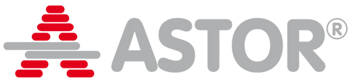
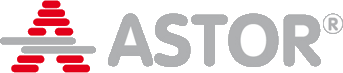
Marka logoları arka plansız, ürün listesi düzenli iki sütun
Claude-Session: https://claude.ai/code/session_01ET9Sv2NA7i64n1QzkYVztB

diff --git a/index.html b/index.html
@@ -46,18 +46,19 @@ a{color:inherit}
 .star{position:absolute;right:22px;top:calc(env(safe-area-inset-top,0px) + 70px);width:30px;z-index:2;animation:tw 3.6s ease-in-out infinite}
 @keyframes tw{50%{transform:scale(.72) rotate(20deg);opacity:.6}}
 .tag{margin:26px 0 0;font:700 12px/1 var(--body);letter-spacing:.14em;text-transform:uppercase;color:var(--sun)}
-.flow{list-style:none;margin:10px 0 0;padding:0;display:flex;flex-wrap:wrap;gap:6px 4px;align-items:center;max-width:100%}
-.flow li{display:inline-flex;align-items:center;gap:4px;font:600 12.5px/1.2 var(--body);color:#E6EDFF}
-.flow li span{background:rgba(255,255,255,.1);border:1px solid rgba(255,255,255,.18);border-radius:999px;padding:5px 9px}
-.flow li.hv span{background:rgba(246,194,50,.16);border-color:rgba(246,194,50,.45);color:#FFE7A3}
-.flow li + li::before{content:"›";color:rgba(255,255,255,.45);font-weight:700;margin-right:2px}
+.flow{list-style:none;margin:12px 0 0;padding:0;display:grid;grid-template-columns:1fr 1fr;gap:5px}
+.flow li{min-width:0;display:flex;align-items:center;justify-content:center;text-align:center;min-height:30px;padding:5px 8px;
+  font:600 12.5px/1.2 var(--body);color:#E6EDFF;background:rgba(255,255,255,.1);border:1px solid rgba(255,255,255,.18);border-radius:10px}
+.flow li.hv{background:rgba(246,194,50,.16);border-color:rgba(246,194,50,.45);color:#FFE7A3}
+.flow li:last-child:nth-child(odd){grid-column:1/-1}
 
 /* --- kişi --- */
 .me{position:relative;margin-top:-80px;display:grid;justify-items:center;text-align:center;gap:4px;z-index:3}
 .photorow{width:100%;display:grid;grid-template-columns:1fr auto 1fr;gap:10px;align-items:start}
 .side{display:grid;gap:6px;min-width:0}
-.side span{background:#fff;border-radius:10px;height:32px;display:grid;place-items:center;padding:4px 8px;box-shadow:0 4px 12px rgba(10,25,60,.25)}
-.side img{max-height:24px;max-width:100%;width:auto;object-fit:contain}
+.side span{height:32px;display:grid;place-items:center}
+.side img{max-height:30px;max-width:100%;width:auto;object-fit:contain}
+.side img.dark{filter:drop-shadow(0 0 1px #fff) drop-shadow(0 0 1px #fff) drop-shadow(0 0 3px rgba(255,255,255,.6))}
 .photo{width:132px;height:132px;border-radius:50%;object-fit:cover;border:5px solid var(--card);
   box-shadow:0 0 0 3px var(--sun),0 14px 30px rgba(20,48,107,.35);background:#ccd}
 h1{font:800 34px/1.05 var(--display);letter-spacing:-.02em;margin:14px 0 2px;text-wrap:balance}
@@ -151,7 +152,7 @@ footer .sp img{height:46px;width:auto;border-radius:8px;background:#fff;padding:
       <img class="ultra" src="img/ultra.png" alt="Ultra Enerji">
     </div>
     <p class="tag">Panelden şebekeye tek tedarikçi</p>
-    <ul class="flow" aria-label="Ürünlerimiz"><li><span>PV Panel</span></li><li><span>Solar Kablo</span></li><li><span>Solar Konnektör</span></li><li><span>Inverter</span></li><li><span>Depolama Çözümleri</span></li><li><span>Combiner Box</span></li><li><span>Alçak Gerilim Şalt/Pano</span></li><li class="hv"><span>Orta Gerilim Trafo/Hücre/Köşk</span></li><li class="hv"><span>Orta Gerilim Röle</span></li><li><span>AC Kablo</span></li><li><span>Kablo Başlığı</span></li></ul>
+    <ul class="flow" aria-label="Ürünlerimiz"><li>PV Panel</li><li>Solar Kablo</li><li>Solar Konnektör</li><li>Inverter</li><li>Depolama Çözümleri</li><li>Combiner Box</li><li>Alçak Gerilim Şalt/Pano</li><li class="hv">Orta Gerilim Trafo/Hücre/Köşk</li><li class="hv">Orta Gerilim Röle</li><li>AC Kablo</li><li>Kablo Başlığı</li></ul>
   </div>
 </header>
 
@@ -160,7 +161,7 @@ footer .sp img{height:46px;width:auto;border-radius:8px;background:#fff;padding:
     <div class="photorow">
       <div class="side"><span><img src="img/schneider.png" alt="Schneider Electric"></span><span><img src="img/astor.png" alt="Astor"></span></div>
       <img class="photo" src="img/okan.jpg" alt="Okan Özden" width="132" height="132">
-      <div class="side"><span><img src="img/lk.png" alt="Lauritz Knudsen"></span><span><img src="img/oznur.png" alt="Öznur Kablo"></span></div>
+      <div class="side"><span><img src="img/lk.png" alt="Lauritz Knudsen"></span><span><img class="dark" src="img/oznur.png" alt="Öznur Kablo"></span></div>
     </div>
     <h1>Okan Özden</h1>
     <p class="role">Ege Bölge Satış Mühendisi</p>
